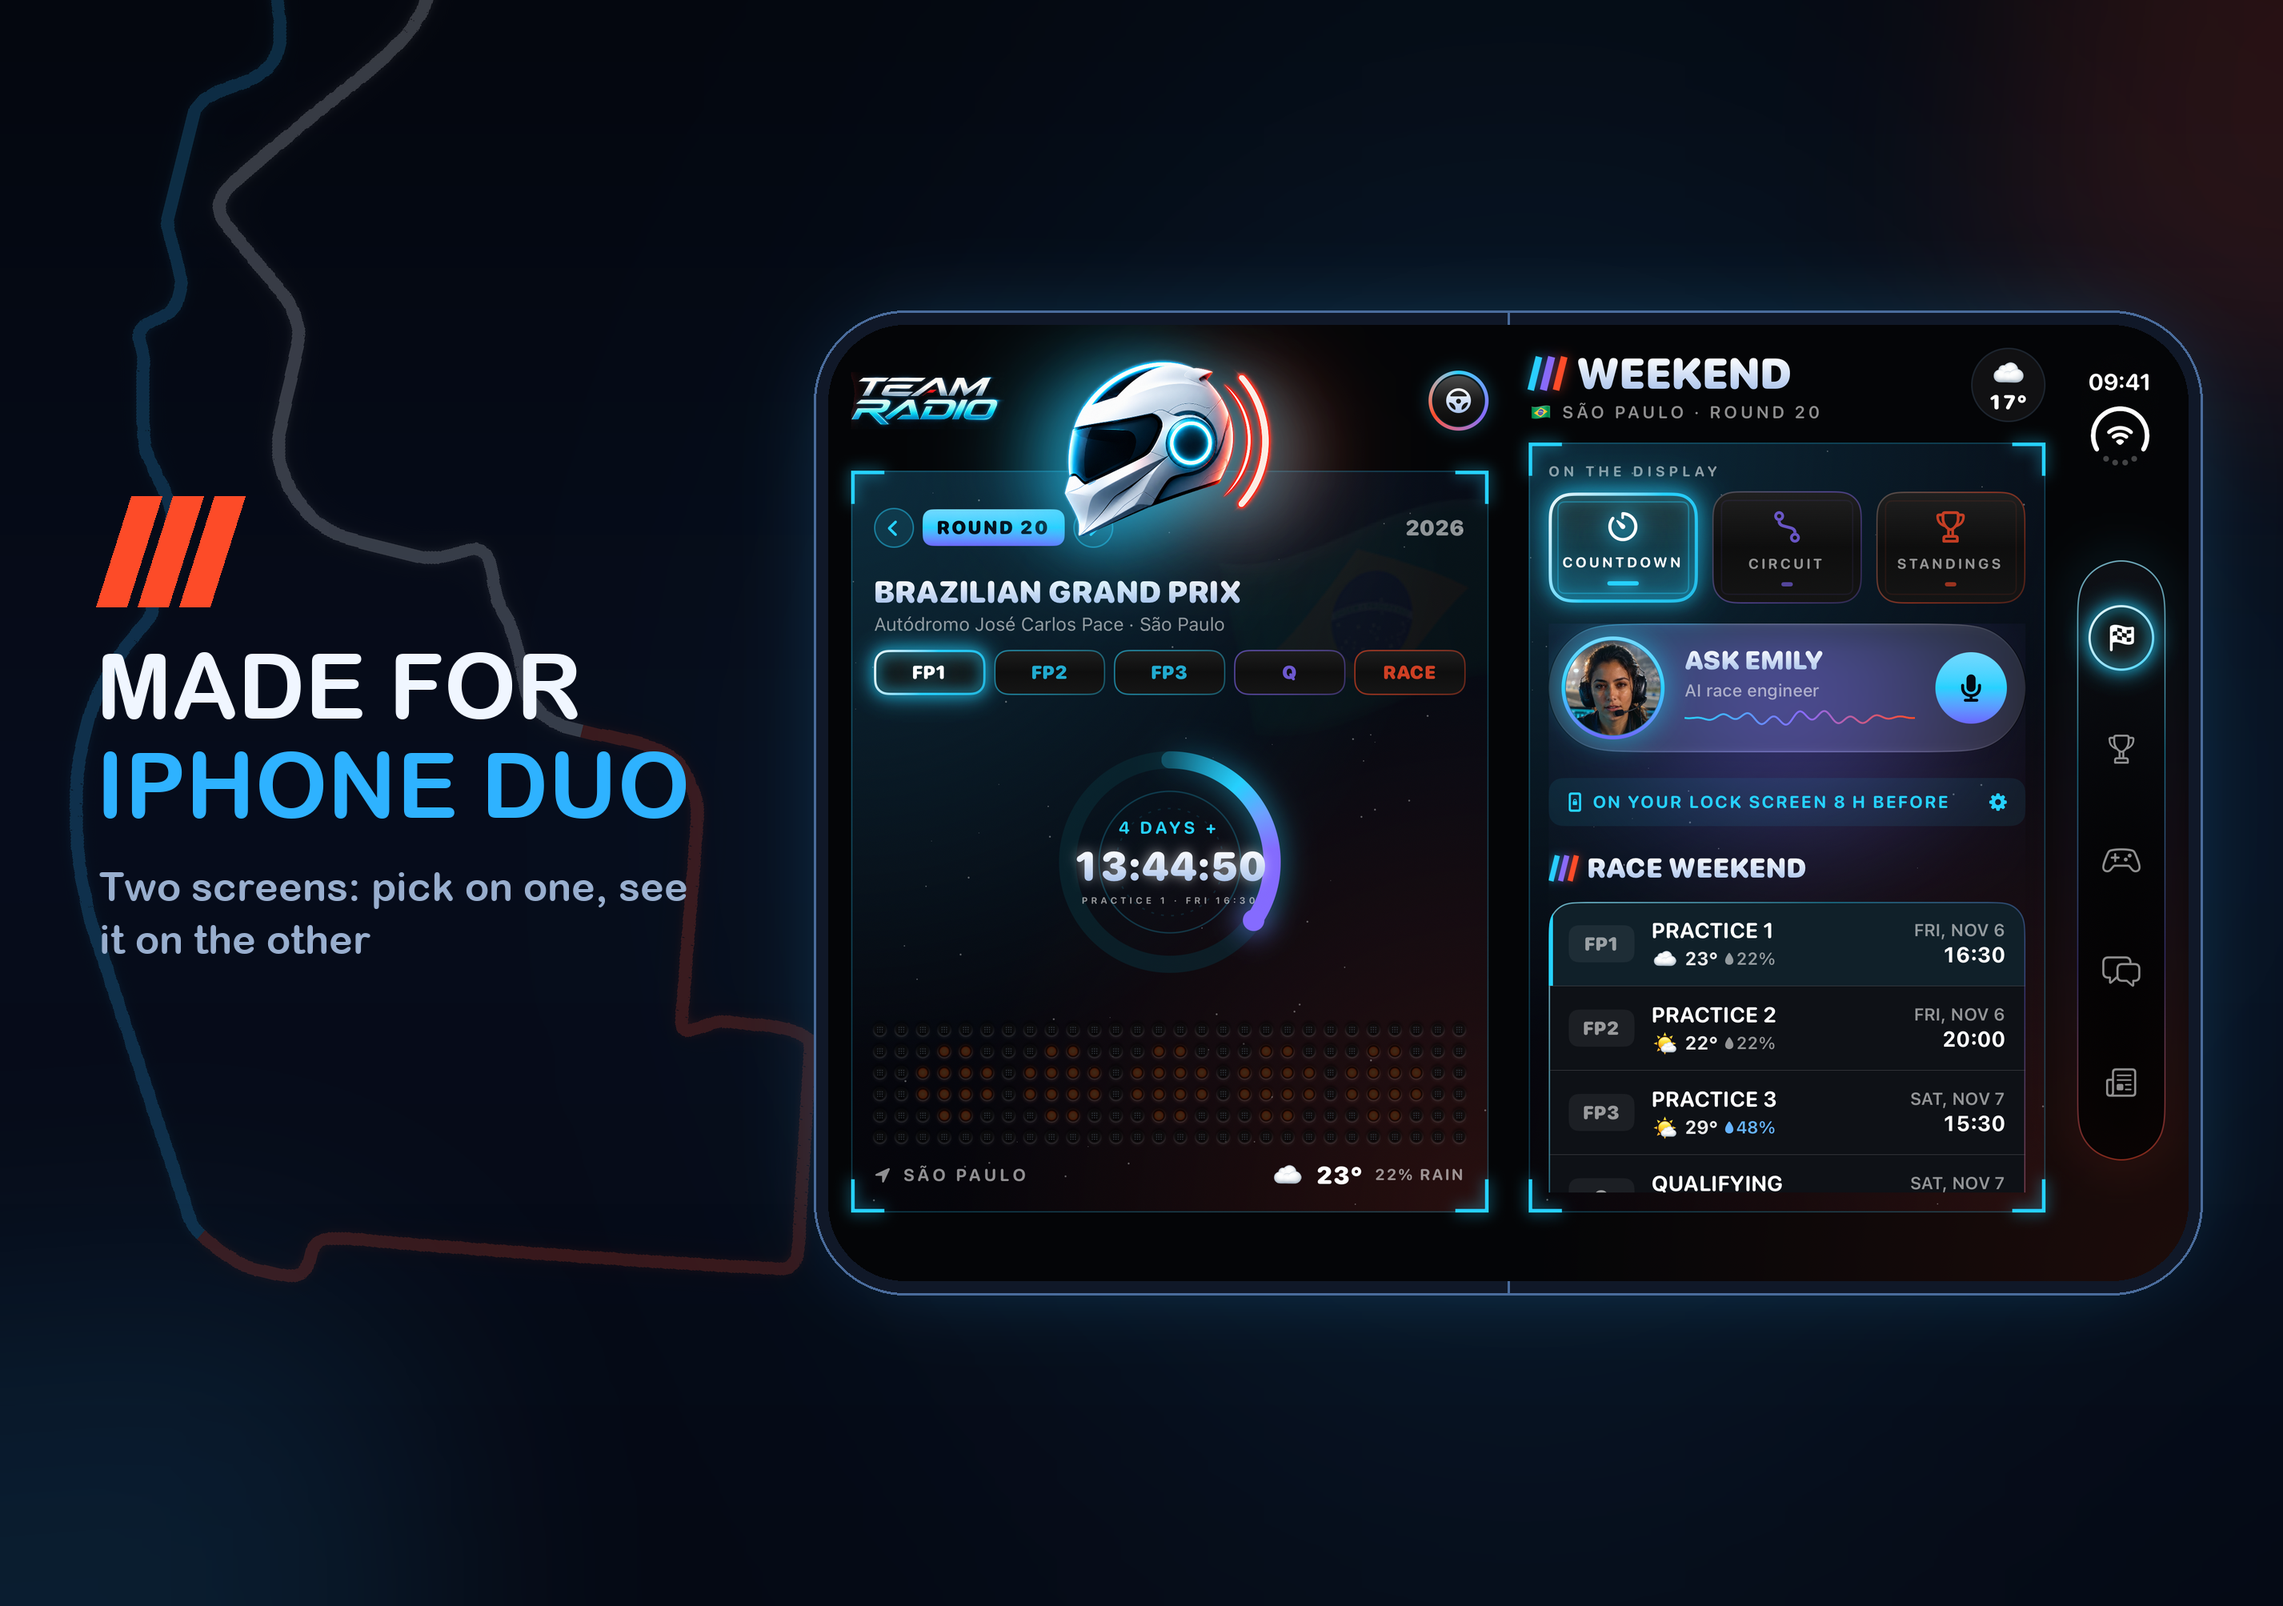
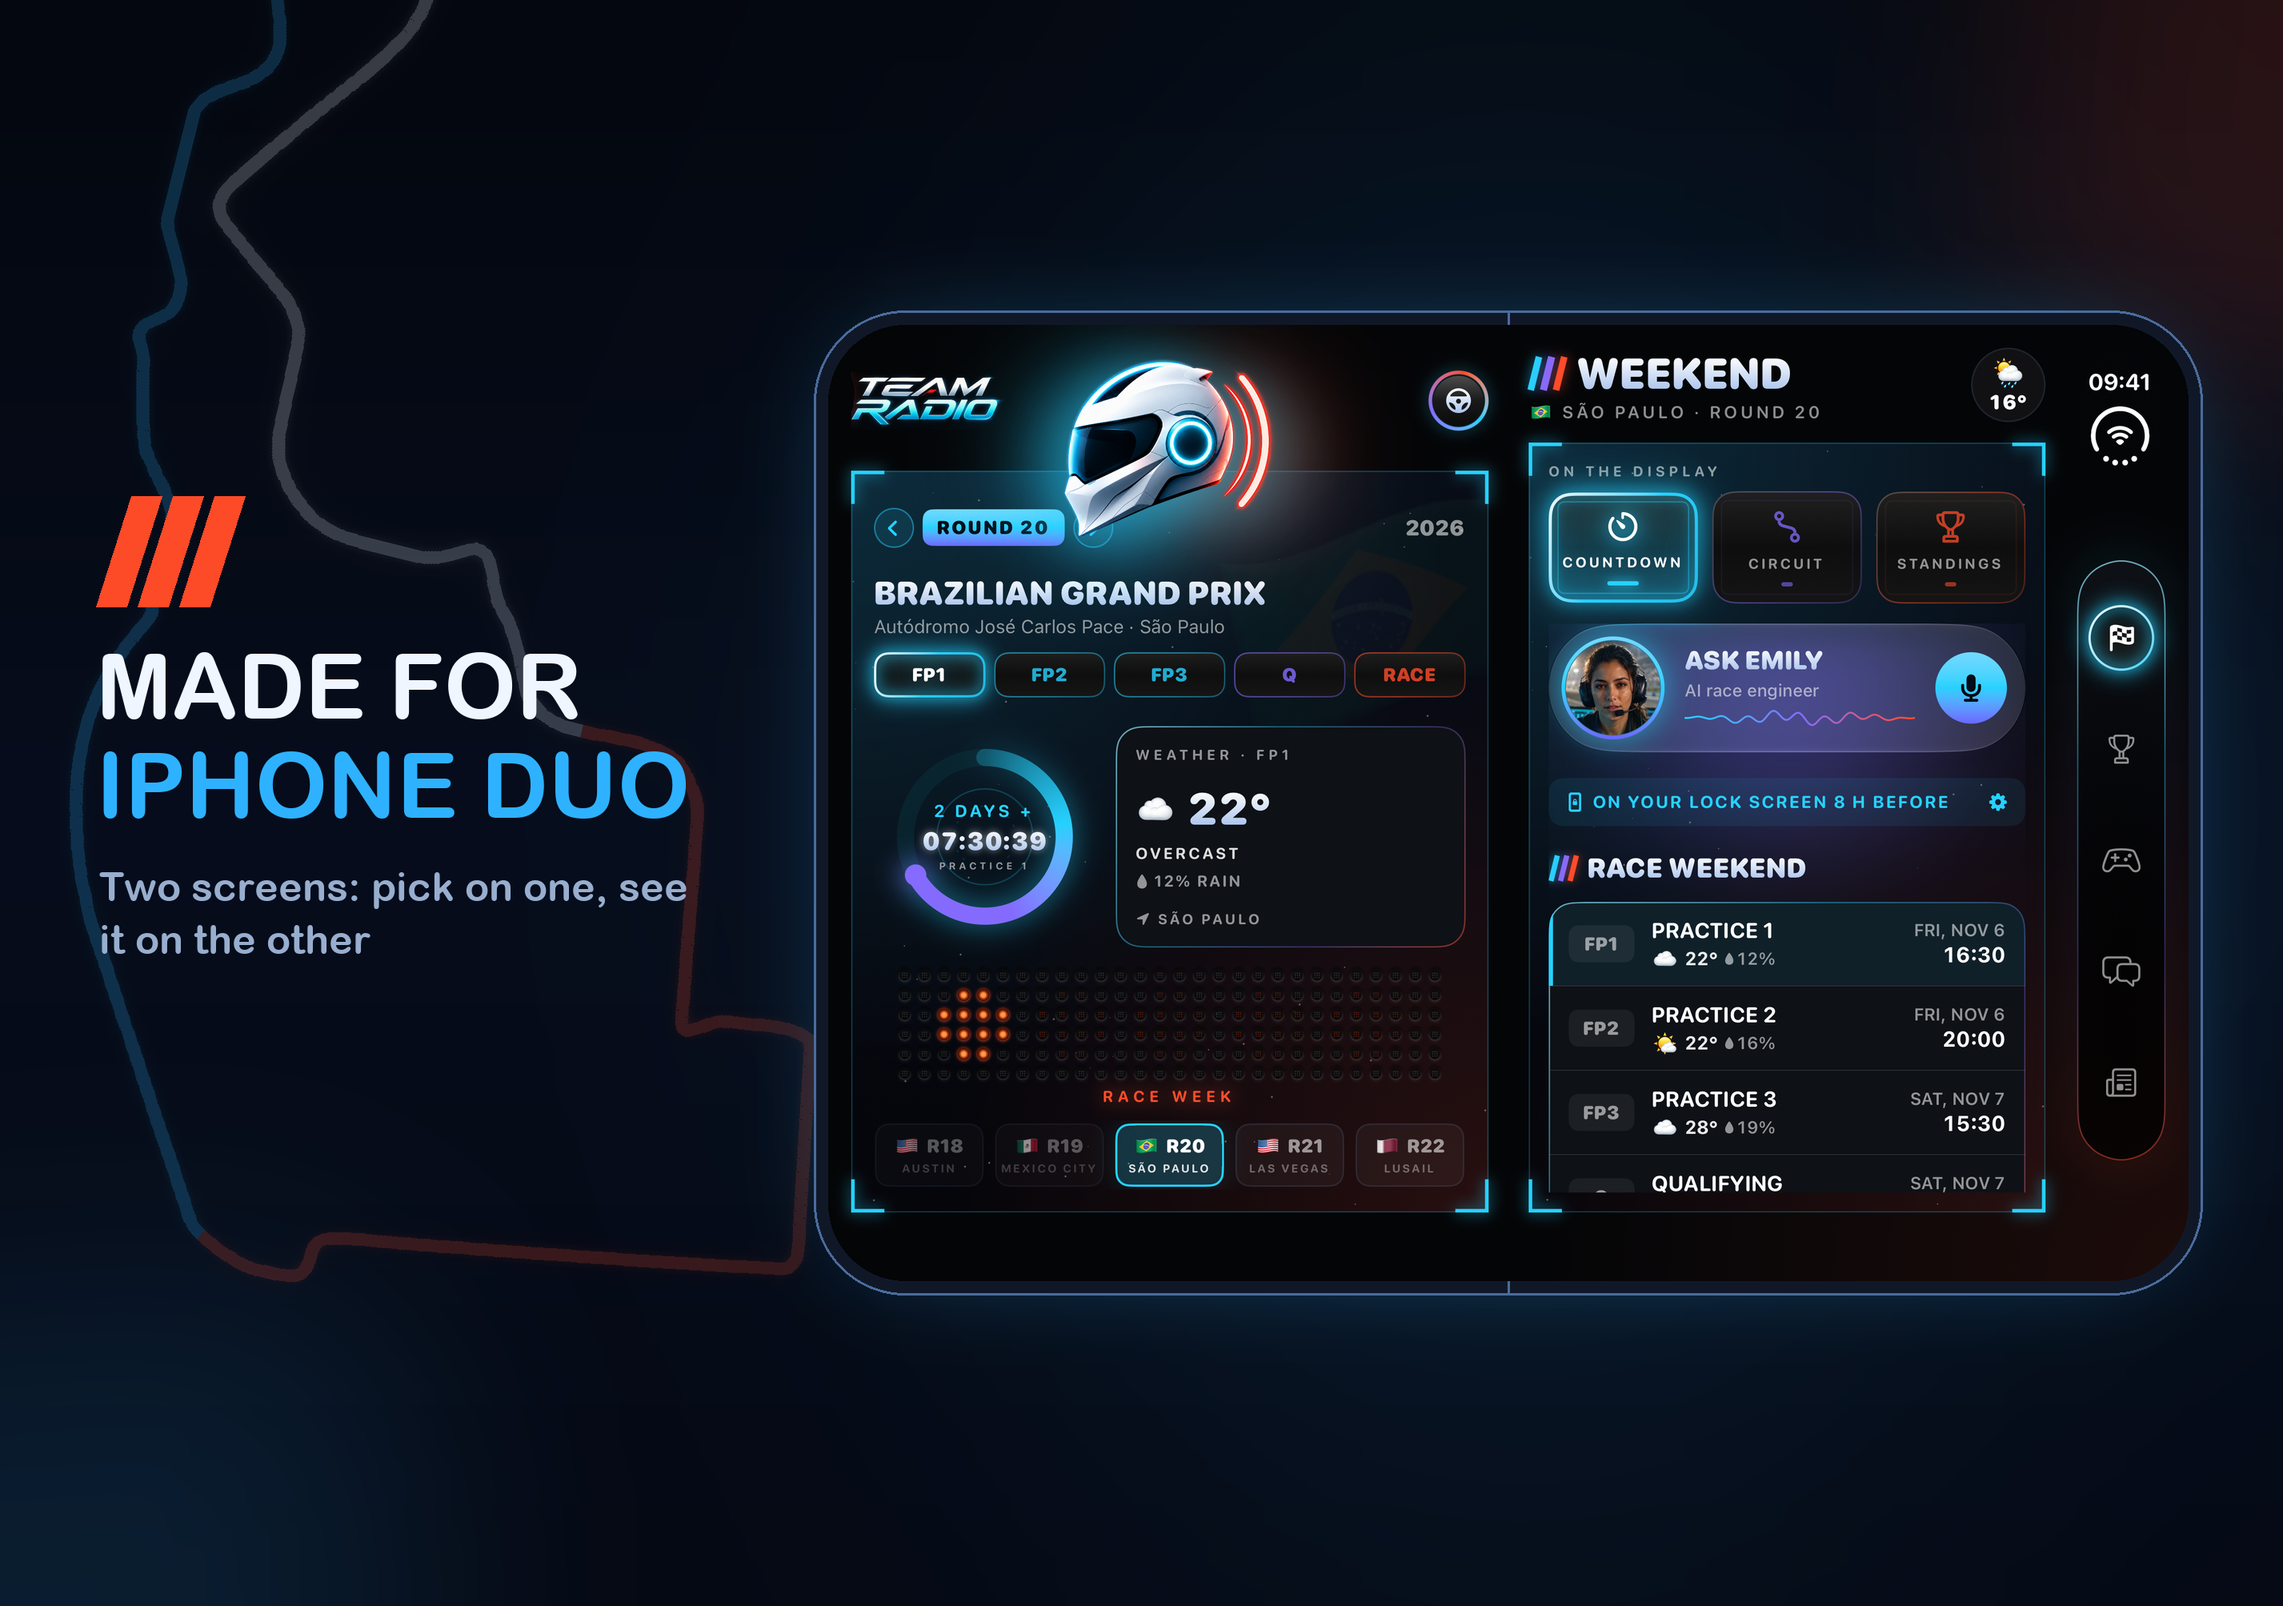
Ring clock fits a small ring: the time's digits shrink to stay inside the arc (it sits beside the weather on the iPhone Duo now, and ran over it), and a small ring names the session alone (PRACTICE 1) instead of cutting its day and time off. iPhone Duo store panel 01 recaptured from the 1.3.4 layout

diff --git a/TeamRadio/Views/CockpitKit.swift b/TeamRadio/Views/CockpitKit.swift
@@ -159,6 +159,10 @@ struct RingClock: View {
         let progress = 1 - min(max(remaining / window, 0), 1)
         let head = hot ? Theme.live : Theme.violet
         let time = String(format: "%02d:%02d:%02d", total % 86400 / 3600, total % 3600 / 60, total % 60)
+        // the time inside the ring (the row runs about five digit sizes wide),
+        // so a small ring beside the weather doesn't push it over the arc
+        let digit = min(size * 0.15, (size - 68) / 5)
+        let small = size < 200
         ZStack {
             ticks
             Circle().stroke(Color.black.opacity(0.5), lineWidth: 12).padding(22)
@@ -187,20 +191,21 @@ struct RingClock: View {
                 HStack(spacing: 0) {
                     ForEach(Array(time.enumerated()), id: \.offset) { _, character in
                         if character == ":" {
-                            Text(":").font(.f1Digits(size * 0.15)).foregroundStyle(Theme.chromeText)
+                            Text(":").font(.f1Digits(digit)).foregroundStyle(Theme.chromeText)
                         } else {
-                            RollingDigit(digit: character, hot: false, rolls: true, size: size * 0.15)
+                            RollingDigit(digit: character, hot: false, rolls: true, size: digit)
                         }
                     }
                 }
                 .animation(.snappy(duration: 0.3), value: total)
-                Text(caption)
+                // a small ring (beside the weather) has room for the session alone
+                Text(small ? caption.components(separatedBy: " · ")[0] : caption)
                     .font(.f1(11, weight: .bold))
                     .tracking(2)
                     .foregroundStyle(hot ? Theme.live : Theme.dimText)
                     .lineLimit(1)
                     .minimumScaleFactor(0.6)
-                    .frame(maxWidth: size - 64)
+                    .frame(maxWidth: small ? size - 90 : size - 64)
             }
         }
         .frame(width: size, height: size)
